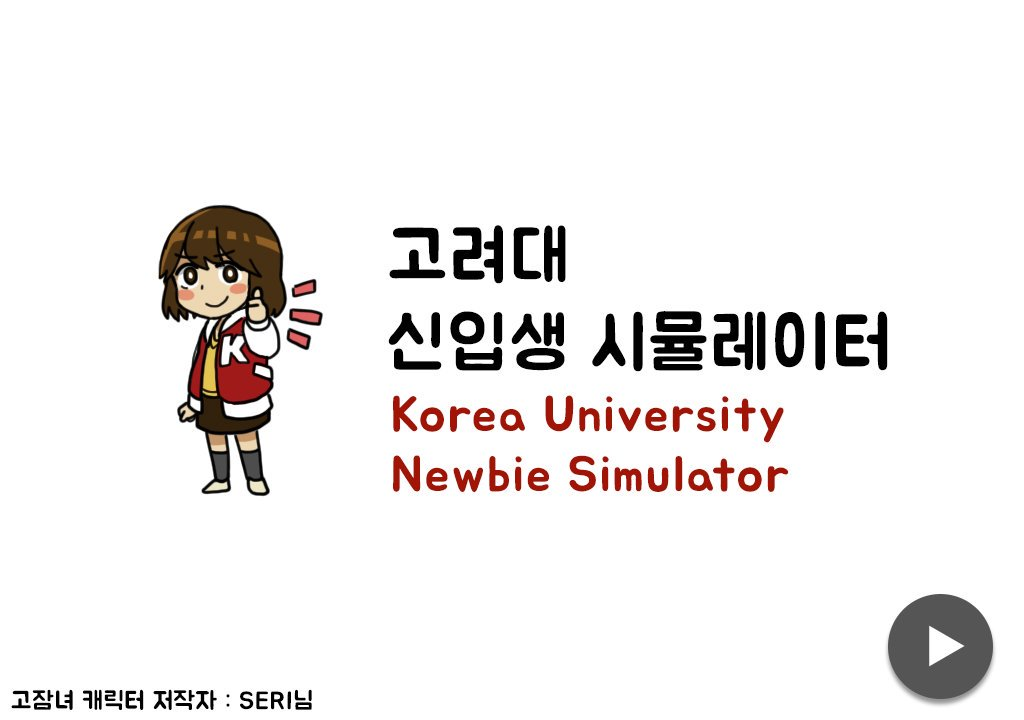
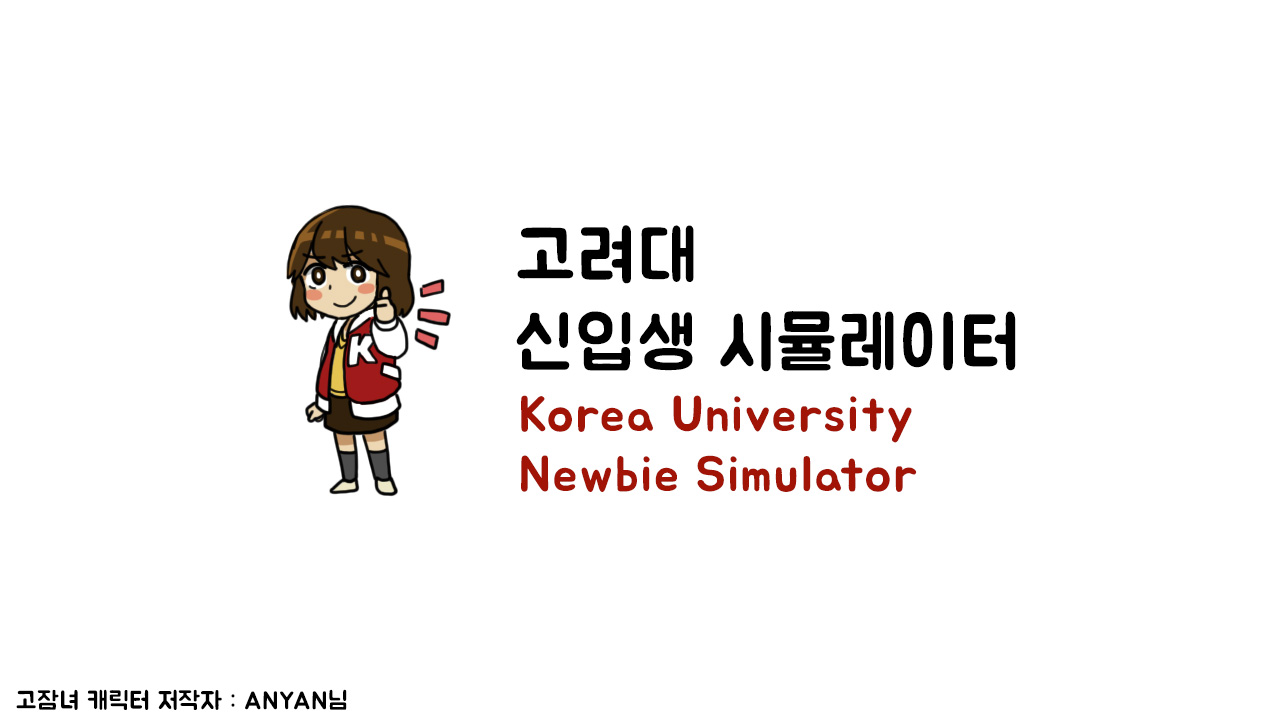
Game: Splash: Replace resources and Add button

diff --git a/NewbieSimulator/NewbieSimulator/scene_0.c b/NewbieSimulator/NewbieSimulator/scene_0.c
@@ -9,6 +9,11 @@ int scene_0_init() {
 
 	object_t bg = create_object("Resources\\dummy\\main.jpg", 0, 0);
 	Background = bg;
+
+	object_t button = create_object("Resources\\UI\\splash\\start_button.png", 1117, 567);
+	ui_set_button(&button);
+	ui_set_on_click_listener(&button, on_click_button_0);
+	Stack.push(&Stack, button);
 	
 //	object_t scrollbar = create_object("Resources\\dummy\\scroller\\object.png", 150, 150);
 //	Stack.push(&Stack, scrollbar);
